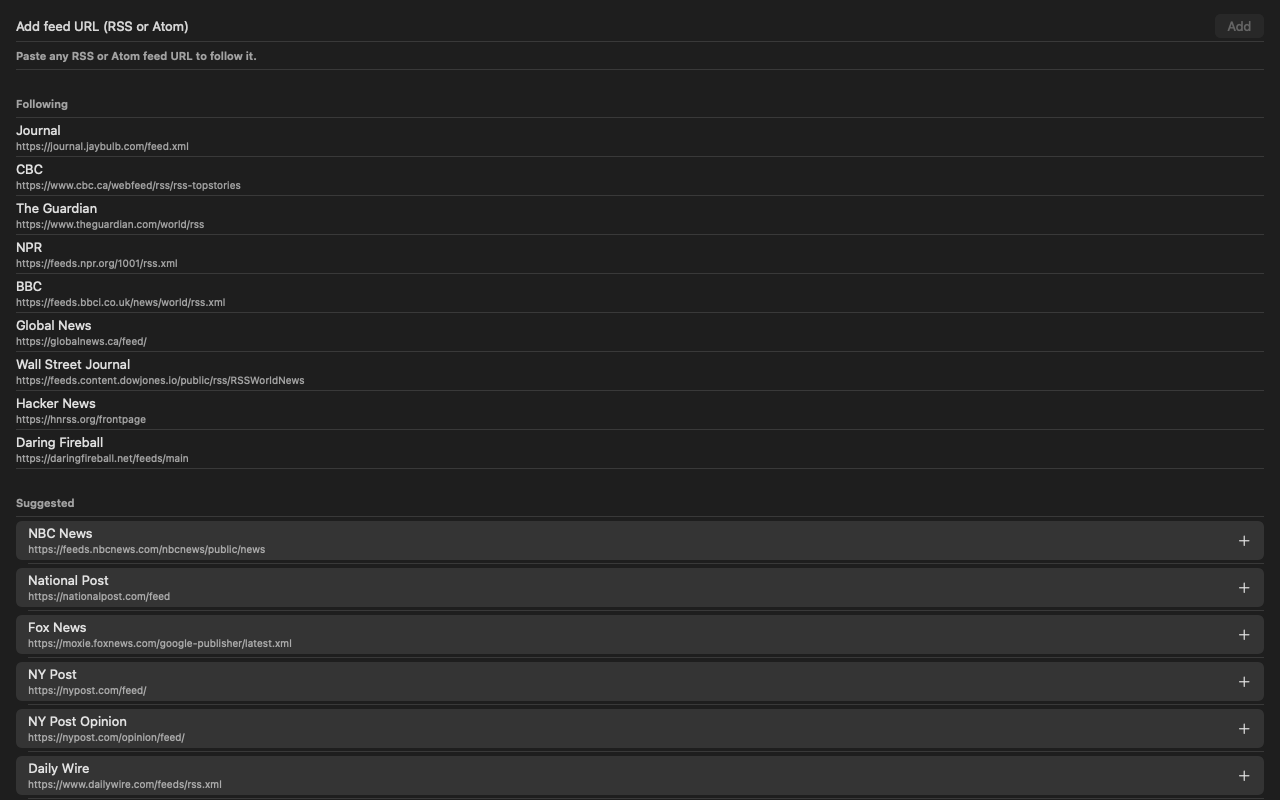
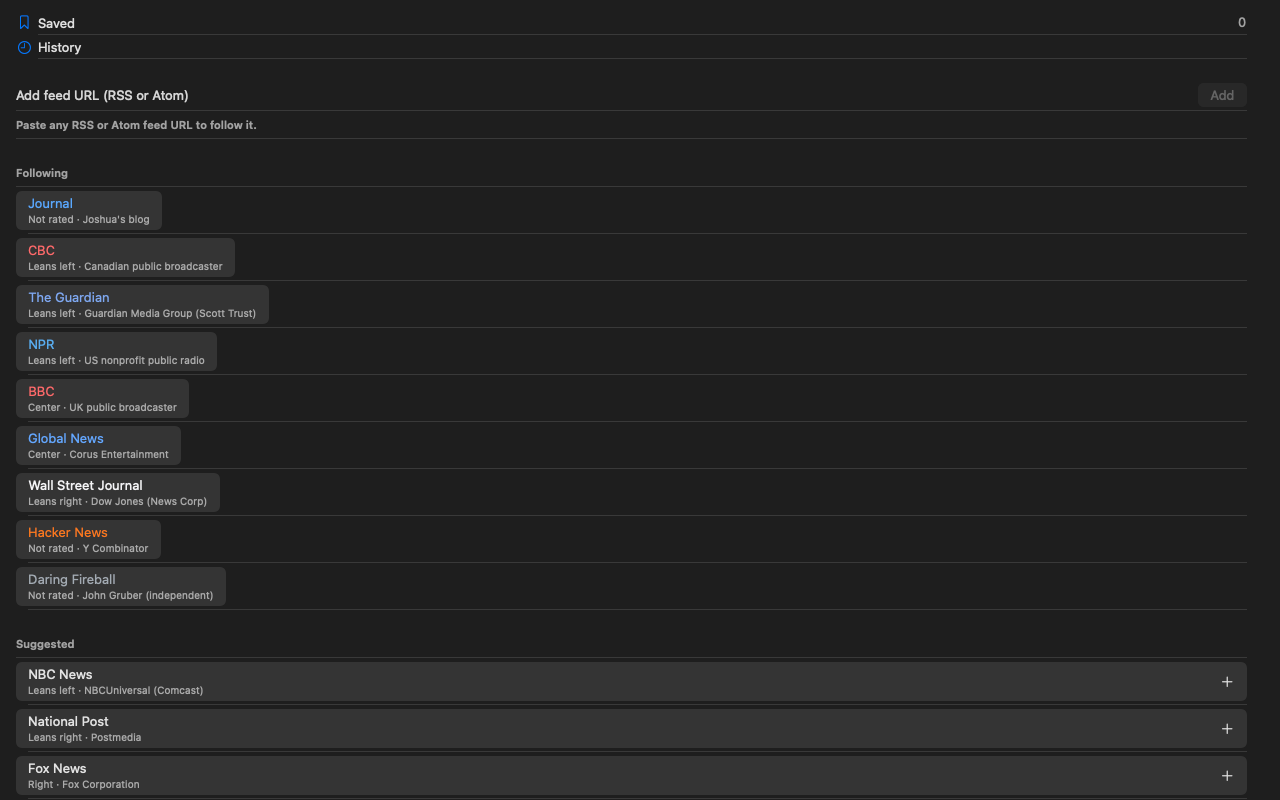
bugle 1.17.0: every outlet in its own color; one outlet on screen (one feed, a search, or a tap in Feeds) tints the whole app, HN orange, BBC red. Smaller landing headline, hero picture capped on wide Macs
Claude-Session: https://claude.ai/code/session_01WK635nmVgnoRhWMPtJwkpw

Changed region(s): [[0.0, 0.0, 0.25, 1.0], [0.9375, 0.0938, 0.9688, 0.125], [0.9375, 0.0312, 0.9688, 0.0625]]

diff --git a/ios/Sources/Shared/Views/EntryListView.swift b/ios/Sources/Shared/Views/EntryListView.swift
@@ -32,7 +32,7 @@ struct EntryListView: View {
             Group {
                 NavigationStack(path: $path) { home }
                     .tabItem { Label("Home", systemImage: "newspaper") }.tag(0)
-                ManageFeedsView(store: store, library: library)
+                ManageFeedsView(store: store, library: library) { query = $0.title; tab = 0 }
                     .tabItem { Label("Feeds", systemImage: "list.bullet.rectangle") }.tag(1)
                 SettingsView(store: store, account: account, library: library)
                     .tabItem { Label("Settings", systemImage: "gearshape") }.tag(2)
@@ -45,6 +45,7 @@ struct EntryListView: View {
         // iPad puts tabs at the top in regular width; compact keeps the bar at the bottom.
         .environment(\.horizontalSizeClass, .compact)
         #endif
+        .tint(accent)
         .task(id: store.feeds) {
             if account.signedIn { try? await account.push(store.feeds) }   // keep the account's copy current
             await feed.refresh(feeds: store.feeds)
@@ -55,11 +56,24 @@ struct EntryListView: View {
         }
     }
 
-    private var home: some View {
-        // Search matches headlines and outlet names ("BBC" shows only BBC). While searching there is no hero.
+    /// Search matches headlines and outlet names ("BBC" shows only BBC). One row per story (the same story from
+    /// several outlets is grouped, Ground News style); Today's biggest lead.
+    private var shown: [Story] {
         let q = query.trimmingCharacters(in: .whitespaces)
-        // One row per story (the same story from several outlets is grouped, Ground News style); Today's biggest lead.
-        let shown = q.isEmpty ? Coverage.today(feed.stories) : feed.stories.filter { $0.entries.contains { $0.title.localizedStandardContains(q) || $0.sourceTitle.localizedStandardContains(q) } }
+        return q.isEmpty ? Coverage.today(feed.stories) : feed.stories.filter { $0.entries.contains { $0.title.localizedStandardContains(q) || $0.sourceTitle.localizedStandardContains(q) } }
+    }
+
+    /// Every story on Home from one outlet (one feed followed, or a search for it): the app wears its color, HN
+    /// orange, BBC red. Several outlets: Bugle blue.
+    private var accent: Color {
+        let sources = Set(shown.map(\.lead.sourceTitle))
+        return sources.count == 1 ? Outlet.color(sources.first!) : .bugleAccent
+    }
+
+    private var home: some View {
+        // While searching there is no hero.
+        let q = query.trimmingCharacters(in: .whitespaces)
+        let shown = self.shown
         // The hero is the newest story with a picture among the first few; everything else is a row.
         let hero = q.isEmpty ? shown.prefix(5).first { $0.lead.imageURL != nil } : nil
         return List {
@@ -130,7 +144,7 @@ struct EntryRow: View {
     }
 }
 
-/// "BBC · 2h ago" above a headline; the outlet in the accent, a bookmark when saved.
+/// "BBC · 2h ago" above a headline; the outlet in its own color, a bookmark when saved.
 struct Kicker: View {
     let entry: JournalEntry
     let saved: Bool
@@ -139,7 +153,7 @@ struct Kicker: View {
     var body: some View {
         let ago = RelativeTime.short(entry.date)
         HStack(spacing: 4) {
-            if !entry.sourceTitle.isEmpty { Text(entry.sourceTitle).fontWeight(.semibold).foregroundStyle(Color.bugleAccent) }
+            if !entry.sourceTitle.isEmpty { Text(entry.sourceTitle).fontWeight(.semibold).foregroundStyle(Outlet.color(entry.sourceTitle)) }
             if !entry.sourceTitle.isEmpty && !ago.isEmpty { Text("·").foregroundStyle(.secondary) }
             Text(ago).foregroundStyle(.secondary)
             if sources > 1 { Text("· \(sources) sources").foregroundStyle(.secondary) }
@@ -166,12 +180,16 @@ struct HeroRow: View {
     var body: some View {
         RowLink(entry: entry) {
             VStack(alignment: .leading, spacing: 8) {
-                AsyncImage(url: entry.imageURL) { phase in
-                    if case .success(let image) = phase { image.resizable().aspectRatio(contentMode: .fill) } else { Color.bugleAccent.opacity(0.12) }
-                }
-                .frame(maxWidth: .infinity)
-                .aspectRatio(16 / 9, contentMode: .fit)
-                .clipShape(RoundedRectangle(cornerRadius: 12, style: .continuous))
+                // 16:9 on a phone; a wide Mac window caps it at 360 points so the picture never fills the screen.
+                Color.clear
+                    .aspectRatio(16 / 9, contentMode: .fit)
+                    .frame(maxWidth: .infinity, maxHeight: 360)
+                    .overlay {
+                        AsyncImage(url: entry.imageURL) { phase in
+                            if case .success(let image) = phase { image.resizable().aspectRatio(contentMode: .fill) } else { Outlet.color(entry.sourceTitle).opacity(0.12) }
+                        }
+                    }
+                    .clipShape(RoundedRectangle(cornerRadius: 12, style: .continuous))
                 Kicker(entry: entry, saved: library.isSaved(entry), sources: story?.publishers ?? 1)
                 Text(Self.headline(entry))
                     .font(.title2.weight(.bold))
@@ -283,7 +301,7 @@ private struct EntryThumbnail: View {
     private var outlet: some View {
         let host = URL(string: page)?.host
         return ZStack {
-            Color.bugleAccent.opacity(0.12)
+            Outlet.color(source).opacity(0.12)
             if let host, let touch = URL(string: "https://\(host)/apple-touch-icon.png"), let fav = URL(string: "https://\(host)/favicon.ico") {
                 AsyncImage(url: touch) { phase in
                     switch phase {
@@ -302,7 +320,7 @@ private struct EntryThumbnail: View {
     }
 
     private var monogram: some View {
-        Text(Self.initials(source)).font(.system(size: 17, weight: .bold)).foregroundStyle(Color.bugleAccent)
+        Text(Self.initials(source)).font(.system(size: 17, weight: .bold)).foregroundStyle(Outlet.color(source))
     }
 
     /// "BBC" stays BBC; "Hacker News" is HN; "The Province" is P. Mirrors `initials` in web/read.html.

diff --git a/web/reader.css b/web/reader.css
@@ -26,8 +26,10 @@ button.row:hover { background: color-mix(in srgb, var(--text) 4%, transparent); 
 .row b.title { white-space: normal; max-height: 48px; }   /* two lines, like Apple News; fitTitles picks a cut that fits */
 .row small { display: block; color: var(--sub); font-size: 13px; line-height: 18px; white-space: nowrap; overflow: hidden; text-overflow: ellipsis; }
 .row .thumb { flex: 0 0 56px; width: 56px; height: 56px; object-fit: cover; border-radius: 12px; background: var(--line); }
-.row .mono { display: flex; align-items: center; justify-content: center; font-size: 17px; font-weight: 700; color: var(--accent);
-  background: color-mix(in srgb, var(--accent) 12%, transparent); }
+.row .mono { --o: var(--c, var(--accent)); display: flex; align-items: center; justify-content: center; font-size: 17px; font-weight: 700; color: var(--o);
+  background: color-mix(in srgb, var(--o) 12%, transparent); }
+@media (prefers-color-scheme: dark) { :root:not([data-theme="light"]) .row .mono { --o: var(--cd, var(--accent)); } }
+:root[data-theme="dark"] .row .mono { --o: var(--cd, var(--accent)); }
 .row .chev { color: var(--sub); flex: none; font-size: 20px; }
 a.row { text-decoration: none; }
 a.row:hover { text-decoration: none; background: color-mix(in srgb, var(--text) 4%, transparent); }
@@ -75,7 +77,13 @@ a.row:hover { text-decoration: none; background: color-mix(in srgb, var(--text) 
 .plain .row { padding: var(--sp-3) 20px; }
 .plain ul.rows li + li { background: linear-gradient(var(--line), var(--line)) 20px 0 / calc(100% - 40px) 1px no-repeat; }
 .kick { display: block; font-size: 13px; line-height: 18px; color: var(--sub); white-space: nowrap; overflow: hidden; text-overflow: ellipsis; margin-bottom: 2px; }
-.kick .src { color: var(--accent); font-weight: 600; }
+.kick .src { color: var(--c, var(--accent)); font-weight: 600; }   /* the outlet's own color (Coverage.paint) */
+@media (prefers-color-scheme: dark) { :root:not([data-theme="light"]) .kick .src { color: var(--cd, var(--accent)); } }
+:root[data-theme="dark"] .kick .src { color: var(--cd, var(--accent)); }
+/* Every story on Home from one outlet (one feed followed, or a search for it): the whole reader takes its color. */
+:root[data-outlet] { --accent: var(--c); }
+@media (prefers-color-scheme: dark) { :root[data-outlet]:not([data-theme="light"]) { --accent: var(--cd); } }
+:root[data-outlet][data-theme="dark"] { --accent: var(--cd); }
 .kick .saved { color: var(--accent); }
 .row.read .title, .hero.read h3 { color: var(--sub); }
 .row.read .thumb { opacity: .6; }

diff --git a/web/coverage.js b/web/coverage.js
@@ -13,6 +13,18 @@ var Coverage = (function () {
     'The Province': O(0, 'Postmedia', 'Postmedia BC'), 'Hacker News': O(null, 'Y Combinator', 'Hacker News'),
     'Daring Fireball': O(null, 'John Gruber (independent)', 'Daring Fireball'), 'Journal': O(null, "Joshua's blog", 'Journal')
   };
+  // Each outlet's own color, [light, dark], each at least 4.5:1 on white and on black (test.mjs checks). Black brands
+  // (WSJ, Daily Wire) turn white in dark mode; HN orange is darkened in light mode so a 13 pt name stays readable.
+  var BRAND = {
+    'Hacker News': ['#C24E00', '#FF7A1A'], 'BBC': ['#BB1919', '#FF6B6B'], 'CBC': ['#CC0000', '#FF6B6B'],
+    'The Guardian': ['#052962', '#7FA8F0'], 'NPR': ['#1D6AA5', '#5AAEF0'], 'Global News': ['#1565C0', '#64A8FF'],
+    'NBC News': ['#0A66B0', '#4CB6F5'], 'Wall Street Journal': ['#111111', '#F5F5F7'], 'National Post': ['#005A9C', '#63A4E0'],
+    'Fox News': ['#003366', '#6FA3E0'], 'NY Post': ['#CC0000', '#FF6B6B'], 'NY Post Opinion': ['#CC0000', '#FF6B6B'],
+    'Daily Wire': ['#111111', '#F5F5F7'], 'Vancouver Sun': ['#12599E', '#6AA6E6'], 'The Province': ['#C8102E', '#FF6B78'],
+    'Daring Fireball': ['#4A525A', '#A3ABB3'], 'Journal': ['#0059B3', '#5AA9FF']
+  };
+  // Paint an element in an outlet's color: --c and --cd, which reader.css picks between for light and dark.
+  function paint(node, source) { var b = BRAND[source]; if (b) { node.style.setProperty('--c', b[0]); node.style.setProperty('--cd', b[1]); } return node; }
   var SIDES = ['left', 'center', 'right'], TITLES = { left: 'Left', center: 'Center', right: 'Right' };
   var STOP = new Set(('the a an of to in on for and or as at by is are was with after over from amid says say new this that it its his her ' +
     'their they we you but not has have had will would could should about into more than what when who how why been being were where which').split(' '));
@@ -88,5 +100,5 @@ var Coverage = (function () {
     return box;
   }
   function about(feed) { var o = outlet(feed.title); return o ? (o.lean == null ? 'Not rated' : leanLabel(o.lean)) + ' · ' + o.owner : feed.url; }
-  return { cluster: cluster, today: today, readingLean: readingLean, bar: bar, section: section, about: about };
+  return { cluster: cluster, today: today, BRAND: BRAND, OUTLETS: OUTLETS, paint: paint, readingLean: readingLean, bar: bar, section: section, about: about };
 })();

diff --git a/web/reader.js b/web/reader.js
@@ -61,6 +61,10 @@ function renderEntries() {
   var q = document.getElementById('q').value.trim().toLowerCase();
   var shown = (q ? stories.filter(function (st) { return st.entries.some(function (e) { return (e.title + ' ' + e.source).toLowerCase().indexOf(q) >= 0; }); }) : Coverage.today(stories))
     .map(function (st) { return st.lead; });
+  // One outlet on screen: the reader wears its color (HN orange, BBC red); several: Bugle blue.
+  var root = document.documentElement, only = shown.length && shown.every(function (e) { return e.source === shown[0].source; }) ? shown[0].source : null;
+  if (only && Coverage.BRAND[only]) { Coverage.paint(root, only); root.dataset.outlet = only; }
+  else { delete root.dataset.outlet; root.style.removeProperty('--c'); root.style.removeProperty('--cd'); }   // or unknown outlets inherit it
   renderStories(document.getElementById('entries'), shown, open, !q,
     q ? 'No stories match \u201C' + q + '\u201D.' : 'No entries yet. Add a feed or pull to refresh.');
 }
@@ -73,6 +77,9 @@ function renderFeeds() {
     var row = el('div', 'row');
     var txt = el('span', 'txt');
     txt.appendChild(el('b', '', f.title)); txt.appendChild(el('small', '', Coverage.about(f)));
+    // Tap an outlet to read just it: Home searches for it and takes its color.
+    txt.style.cursor = 'pointer';
+    txt.onclick = function () { document.getElementById('q').value = f.title; location.hash = '#home'; renderEntries(); };
     var rm = el('button', 'act', 'Remove');
     rm.setAttribute('aria-label', 'Remove ' + f.title);
     rm.onclick = function () { feeds.splice(i, 1); save(); renderFeeds(); refresh(); };

diff --git a/ios/Sources/Shared/Models/Coverage.swift b/ios/Sources/Shared/Models/Coverage.swift
@@ -1,4 +1,4 @@
-import Foundation
+import SwiftUI
 
 /// Ground News-style coverage, ported from Sidewise (`sidewise/src/stories.js`): the same story grouped across
 /// outlets, each outlet's lean and owner, a left / center / right count per story, and blindspots (a story only
@@ -32,6 +32,19 @@ struct Outlet {
     ]
 
     static func of(_ source: String) -> Outlet? { known[source] }
+
+    /// Each outlet's own color (light, dark), the same table as web/coverage.js, where test.mjs checks every pair is
+    /// 4.5:1 on white and on black. Anything else gets Bugle blue.
+    static let brand: [String: (light: UInt32, dark: UInt32)] = [
+        "Hacker News": (0xC24E00, 0xFF7A1A), "BBC": (0xBB1919, 0xFF6B6B), "CBC": (0xCC0000, 0xFF6B6B),
+        "The Guardian": (0x052962, 0x7FA8F0), "NPR": (0x1D6AA5, 0x5AAEF0), "Global News": (0x1565C0, 0x64A8FF),
+        "NBC News": (0x0A66B0, 0x4CB6F5), "Wall Street Journal": (0x111111, 0xF5F5F7), "National Post": (0x005A9C, 0x63A4E0),
+        "Fox News": (0x003366, 0x6FA3E0), "NY Post": (0xCC0000, 0xFF6B6B), "NY Post Opinion": (0xCC0000, 0xFF6B6B),
+        "Daily Wire": (0x111111, 0xF5F5F7), "Vancouver Sun": (0x12599E, 0x6AA6E6), "The Province": (0xC8102E, 0xFF6B78),
+        "Daring Fireball": (0x4A525A, 0xA3ABB3), "Journal": (0x0059B3, 0x5AA9FF),
+    ]
+
+    static func color(_ source: String) -> Color { brand[source].map { Color(light: $0.light, dark: $0.dark) } ?? .bugleAccent }
 
     static func leanLabel(_ lean: Int) -> String {
         ["Left", "Leans left", "Center", "Leans right", "Right"][max(0, min(4, lean + 2))]

diff --git a/web/read.html b/web/read.html
@@ -8,7 +8,7 @@
 <meta name="theme-color" content="#0059B3">
 <link rel="icon" href="icon.svg">
 <link rel="stylesheet" href="style.css">
-<link rel="stylesheet" href="reader.css?v=1.16.1">
+<link rel="stylesheet" href="reader.css?v=1.17.0">
   <link rel="manifest" href="/manifest.webmanifest">
   <link rel="apple-touch-icon" href="/icon-192.png">
   <meta name="apple-mobile-web-app-capable" content="yes">
@@ -93,13 +93,13 @@
   <a href="#settings" data-tab="settings"><svg viewBox="0 0 24 24" fill="none" stroke="currentColor" stroke-width="2"><circle cx="12" cy="12" r="3"/><path d="M12 2v3M12 19v3M4.2 4.2l2.1 2.1M17.7 17.7l2.1 2.1M2 12h3M19 12h3M4.2 19.8l2.1-2.1M17.7 6.3l2.1-2.1"/></svg>Settings</a>
 </nav>
 
-<script src="headline.js?v=1.16.1"></script>
-<script src="parse.js?v=1.16.1"></script>
-<script src="rows.js?v=1.16.1"></script>
-<script src="coverage.js?v=1.16.1"></script>
-<script src="reader.js?v=1.16.1"></script>
-<script src="library.js?v=1.16.1"></script>
-<script src="account.js?v=1.16.1"></script>
+<script src="headline.js?v=1.17.0"></script>
+<script src="parse.js?v=1.17.0"></script>
+<script src="rows.js?v=1.17.0"></script>
+<script src="coverage.js?v=1.17.0"></script>
+<script src="reader.js?v=1.17.0"></script>
+<script src="library.js?v=1.17.0"></script>
+<script src="account.js?v=1.17.0"></script>
 
   <script>if('serviceWorker' in navigator)addEventListener('load',()=>navigator.serviceWorker.register('/sw.js'));</script>
 </body>

diff --git a/ios/Sources/Shared/Views/ManageFeedsView.swift b/ios/Sources/Shared/Views/ManageFeedsView.swift
@@ -3,6 +3,8 @@ import SwiftUI
 struct ManageFeedsView: View {
     @ObservedObject var store: FeedStore
     @ObservedObject var library: Library
+    /// Tap an outlet to read just it: Home searches for it and takes its color.
+    var open: (Feed) -> Void = { _ in }
     @State private var newFeed = ""
     @State private var showError = false
 
@@ -36,9 +38,11 @@ struct ManageFeedsView: View {
 
                 Section("Following") {
                     ForEach(store.feeds) { feed in
-                        VStack(alignment: .leading, spacing: 2) {
-                            Text(feed.title).font(.body)
-                            Text(Self.about(feed)).font(.caption).foregroundStyle(.secondary).lineLimit(1)
+                        Button { open(feed) } label: {
+                            VStack(alignment: .leading, spacing: 2) {
+                                Text(feed.title).font(.body).foregroundStyle(Outlet.color(feed.title))
+                                Text(Self.about(feed)).font(.caption).foregroundStyle(.secondary).lineLimit(1)
+                            }
                         }
                     }
                     .onDelete(perform: store.remove)

diff --git a/ios/Sources/Shared/Models/Theme.swift b/ios/Sources/Shared/Models/Theme.swift
@@ -4,3 +4,22 @@ extension Color {
     // Matches --accent in brand/tokens.css (#0059B3) so the brand color is the same everywhere.
     static let bugleAccent = Color(red: 0.0, green: 0.349, blue: 0.702)
 }
+
+extension Color {
+    /// One color per appearance, from 0xRRGGBB values (outlet colors in Outlet.brand).
+    init(light: UInt32, dark: UInt32) {
+        func rgb(_ v: UInt32) -> (CGFloat, CGFloat, CGFloat) { (CGFloat(v >> 16 & 0xFF) / 255, CGFloat(v >> 8 & 0xFF) / 255, CGFloat(v & 0xFF) / 255) }
+        let (l, d) = (rgb(light), rgb(dark))
+        #if os(macOS)
+        self.init(nsColor: NSColor(name: nil) { a in
+            let c = a.bestMatch(from: [.darkAqua, .aqua]) == .darkAqua ? d : l
+            return NSColor(srgbRed: c.0, green: c.1, blue: c.2, alpha: 1)
+        })
+        #else
+        self.init(uiColor: UIColor { t in
+            let c = t.userInterfaceStyle == .dark ? d : l
+            return UIColor(red: c.0, green: c.1, blue: c.2, alpha: 1)
+        })
+        #endif
+    }
+}

diff --git a/web/rows.js b/web/rows.js
@@ -31,7 +31,7 @@ function ago(d, now) {
 
 function kicker(e) {
   var k = el('small', 'kick');
-  if (e.source) k.appendChild(el('span', 'src', e.source));
+  if (e.source) k.appendChild(window.Coverage ? Coverage.paint(el('span', 'src', e.source), e.source) : el('span', 'src', e.source));
   var when = ago(e.date);
   if (e.source && when) k.appendChild(document.createTextNode(' · '));
   if (when) k.appendChild(document.createTextNode(when));
@@ -45,6 +45,7 @@ function kicker(e) {
 // own icon, else its initials.
 function thumb(e) {
   var mono = el('span', 'thumb mono', initials(e.source));
+  if (window.Coverage) Coverage.paint(mono, e.source);   // the outlet's color, like its name above the headline
   mono.dataset.page = e.url;
   if (!e.image) return mono;
   var img = el('img', 'thumb');

diff --git a/web/landing.css b/web/landing.css
@@ -17,7 +17,7 @@ a { color: inherit; }
 
 h1, h2, h3, .label { font-family: var(--display); font-weight: 700; }
 h1, h2, h3 { text-wrap: balance; }
-h1 { font-size: clamp(44px, 9vw, 112px); line-height: 1; letter-spacing: -.03em; }   /* a headline, not the name: the label above carries that */
+h1 { font-size: clamp(40px, 6.5vw, 88px); line-height: 1.05; letter-spacing: -.03em; }   /* a headline, not the name: the label above carries that */
 h2 { font-size: clamp(52px, 7.4vw, 112px); line-height: .9; }
 h3 { font-size: 30px; line-height: 32px; }
 .label { font-size: 14px; line-height: 16px; color: var(--sub); margin-bottom: var(--sp-4); }

diff --git a/web/sw.js b/web/sw.js
@@ -1,6 +1,6 @@
 // ponytail: network-first for pages, cache-first for the hashed assets they name.
 // Bump CACHE to evict everything a previous version stored.
-const CACHE = "bugle-v22";
+const CACHE = "bugle-v23";
 const FILES = ["/", "/index.html","/privacy.html","/read.html","/support.html", "/manifest.webmanifest"];
 
 self.addEventListener("install", e => {

diff --git a/web/index.html b/web/index.html
@@ -24,7 +24,7 @@
 <meta name="twitter:image" content="https://bugle.jaybulb.com/og.png?v=2">
 <link rel="preload" href="fonts/BugleDisplay-Bold.woff2" as="font" type="font/woff2" crossorigin>
 <link rel="stylesheet" href="tokens.css">
-<link rel="stylesheet" href="landing.css?v=2">
+<link rel="stylesheet" href="landing.css?v=3">
 </head>
 <body>
 
